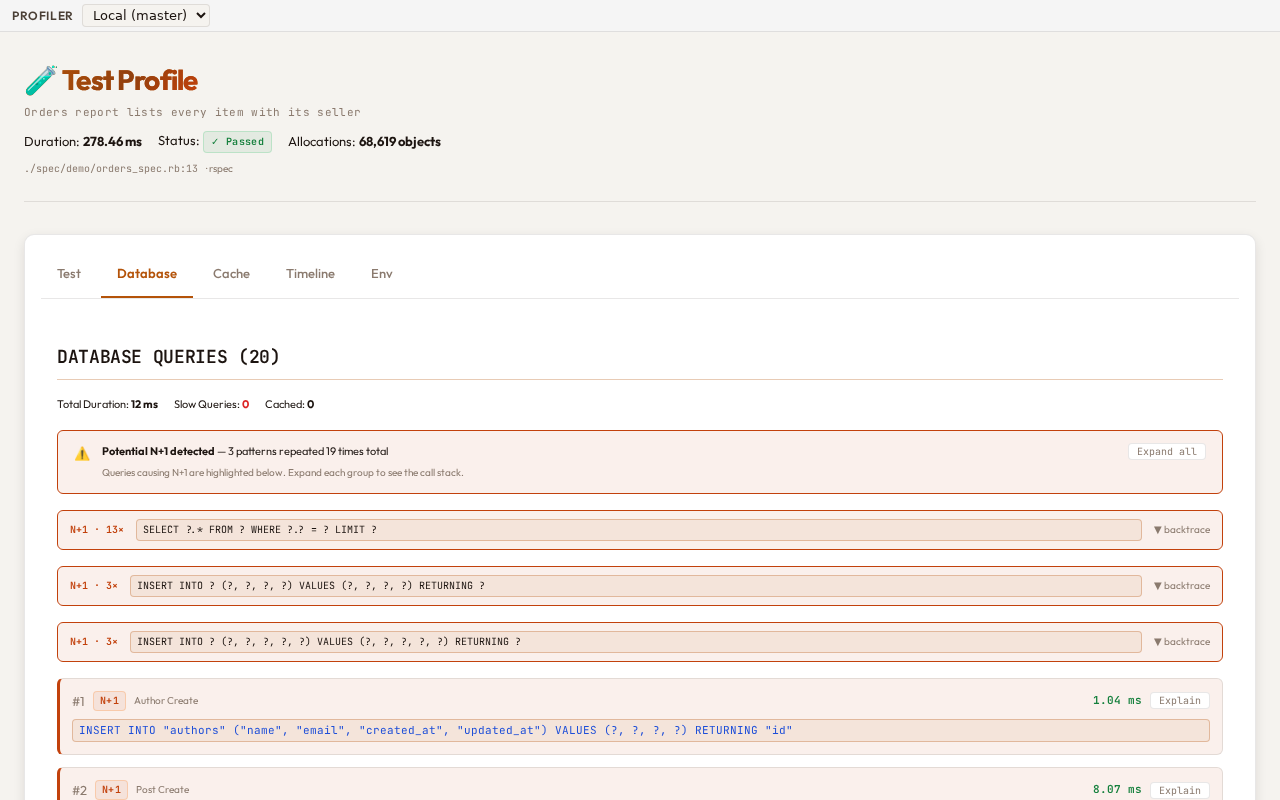
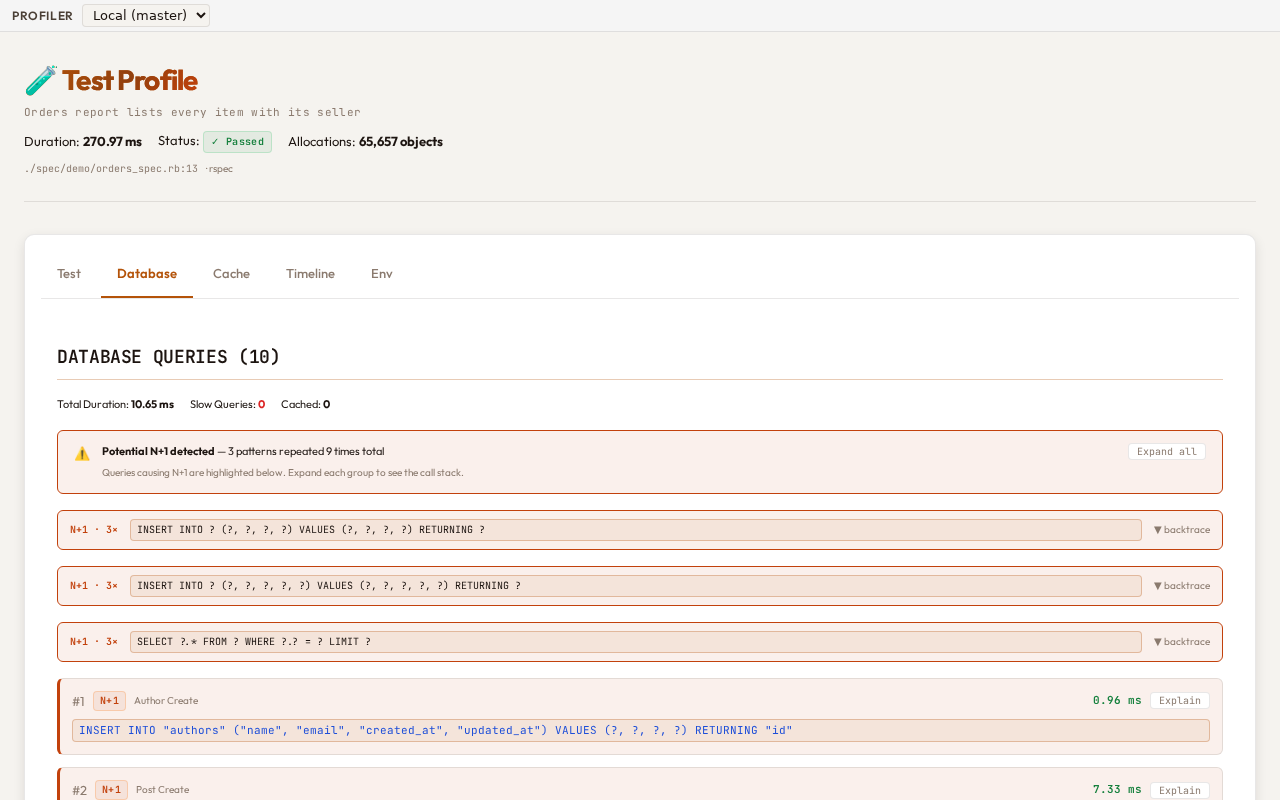
docs: fix the demo test run behind the test screenshots
run.sh prepared the demo test database with db:prepare, which also loads the
seeds: two of the demo specs then failed, and the test runner capture showed a
failed run next to a report of five passed tests. The test database is now
created from the schema only, the four test captures are regenerated from a
passing run, and the screenshot notes list every capture that shows a dash
written by the UI itself.

Also rewords one sentence of docs/security.md.

diff --git a/docs/screenshots/README.md b/docs/screenshots/README.md
@@ -66,6 +66,11 @@ path, user or machine name of the host reaches the Env tab. The application live
 - `spec/demo_helper.rb` sets up the test profiling itself instead of calling
   `Profiler::TestHelpers::RSpecSupport.install`, which, as of 0.32.1, fails every example under
   RSpec 3.13 (`example.line_number` is not defined on the object an `around` hook receives).
-  The demo specs all pass: a failing example is recorded as passed by the same integration.
+  The demo specs all pass, and must: a failing example is recorded as passed by the same
+  integration, so the Test Runner would show a failed run next to a report of passed tests.
 - `test_app`'s `config/initializers/dev_env_vars.rb` points `DATABASE_URL` at the development
-  database in every environment; the demo specs and `run.sh` use `storage/test.sqlite3`.
+  database in every environment; the demo specs and `run.sh` use `storage/test.sqlite3`, which
+  `run.sh` creates from the schema without the seeds the demo specs do not expect.
+- `tab-database.png`, `tab-env.png`, `tab-mailer.png` and `test-profile-database.png` show a
+  dash that the profiler's UI itself writes (the N+1 banner, the Env snapshot notice, the
+  subject next to a mailer action), not the demo data.

diff --git a/docs/security.md b/docs/security.md
@@ -168,7 +168,7 @@ What is masked:
 | Job arguments (Active Job, Sidekiq) | values of filtered keys inside hash arguments |
 | Mailer arguments (`assigns`) | arguments whose parameter name matches the filter, and values of filtered keys inside hash arguments |
 
-The cluster's `cluster_secret` is also masked **by value**, whatever name it travels under, and
+The cluster's `cluster_secret` is also masked **by value**, under whatever name it appears, and
 even with `config.redact_sensitive_data = false`: a value equal to it becomes `[FILTERED]`, and the
 secret inside a longer string is replaced by `[FILTERED]`. This covers what the table above lists
 (params, bodies, headers, URLs, `ENV`, SQL binds, job and mailer arguments), the data of every
